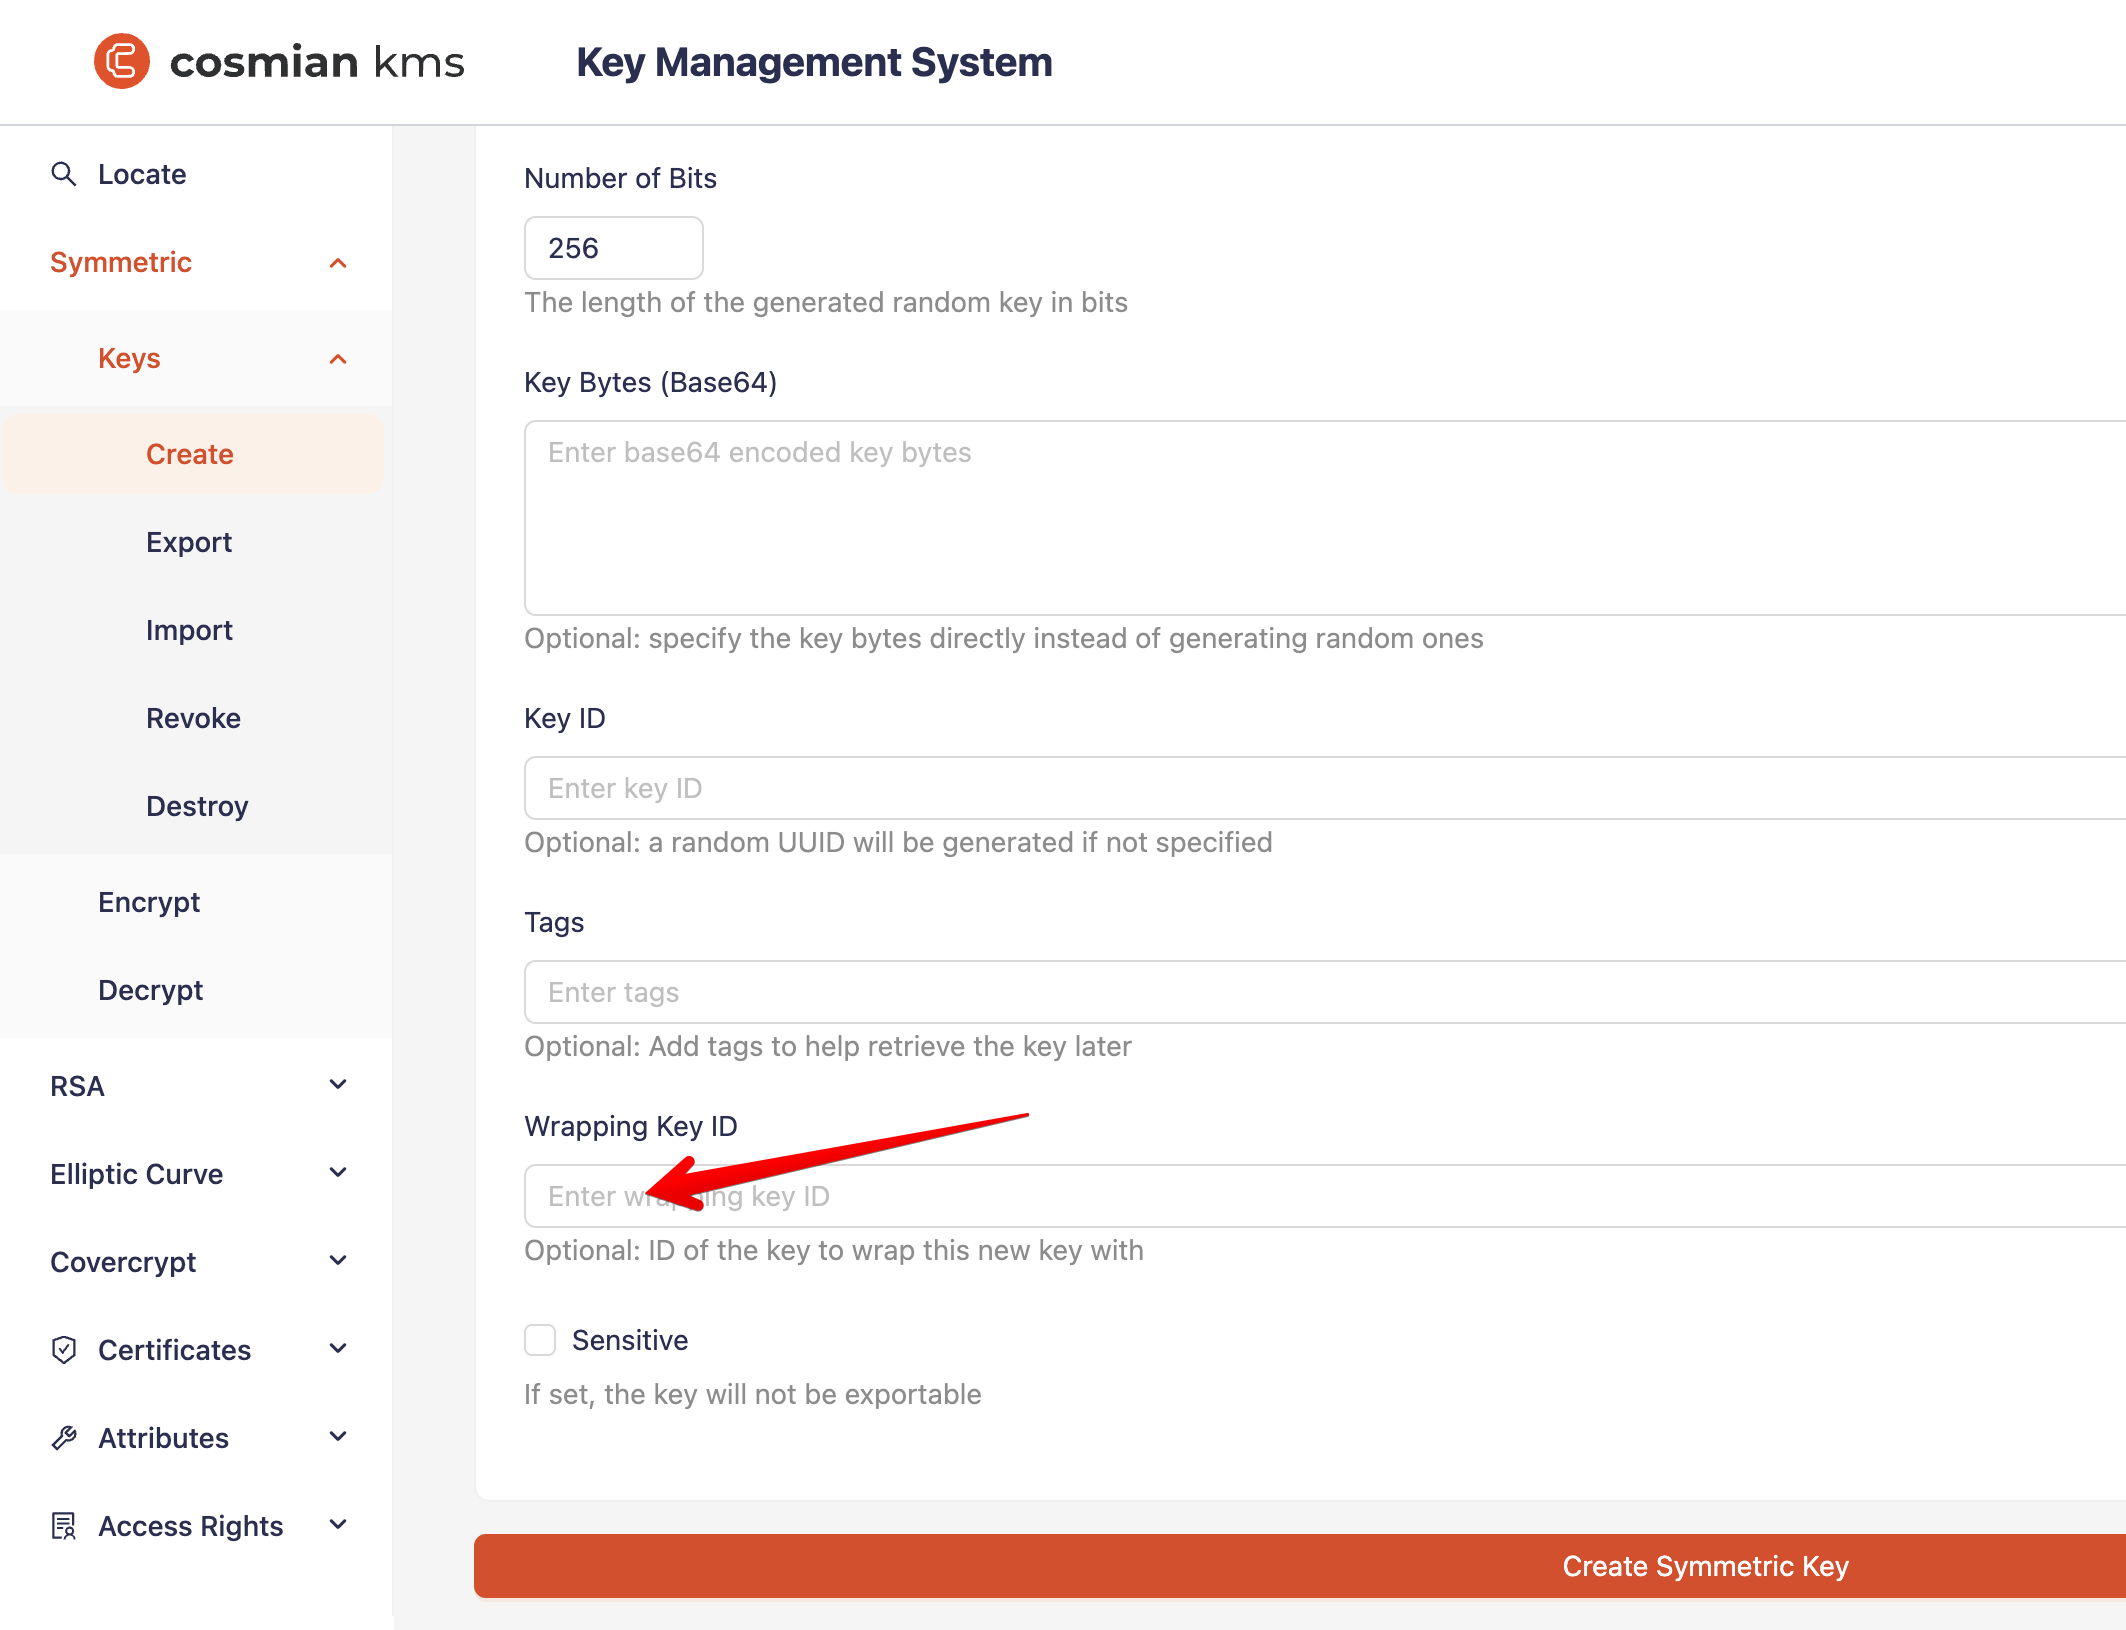
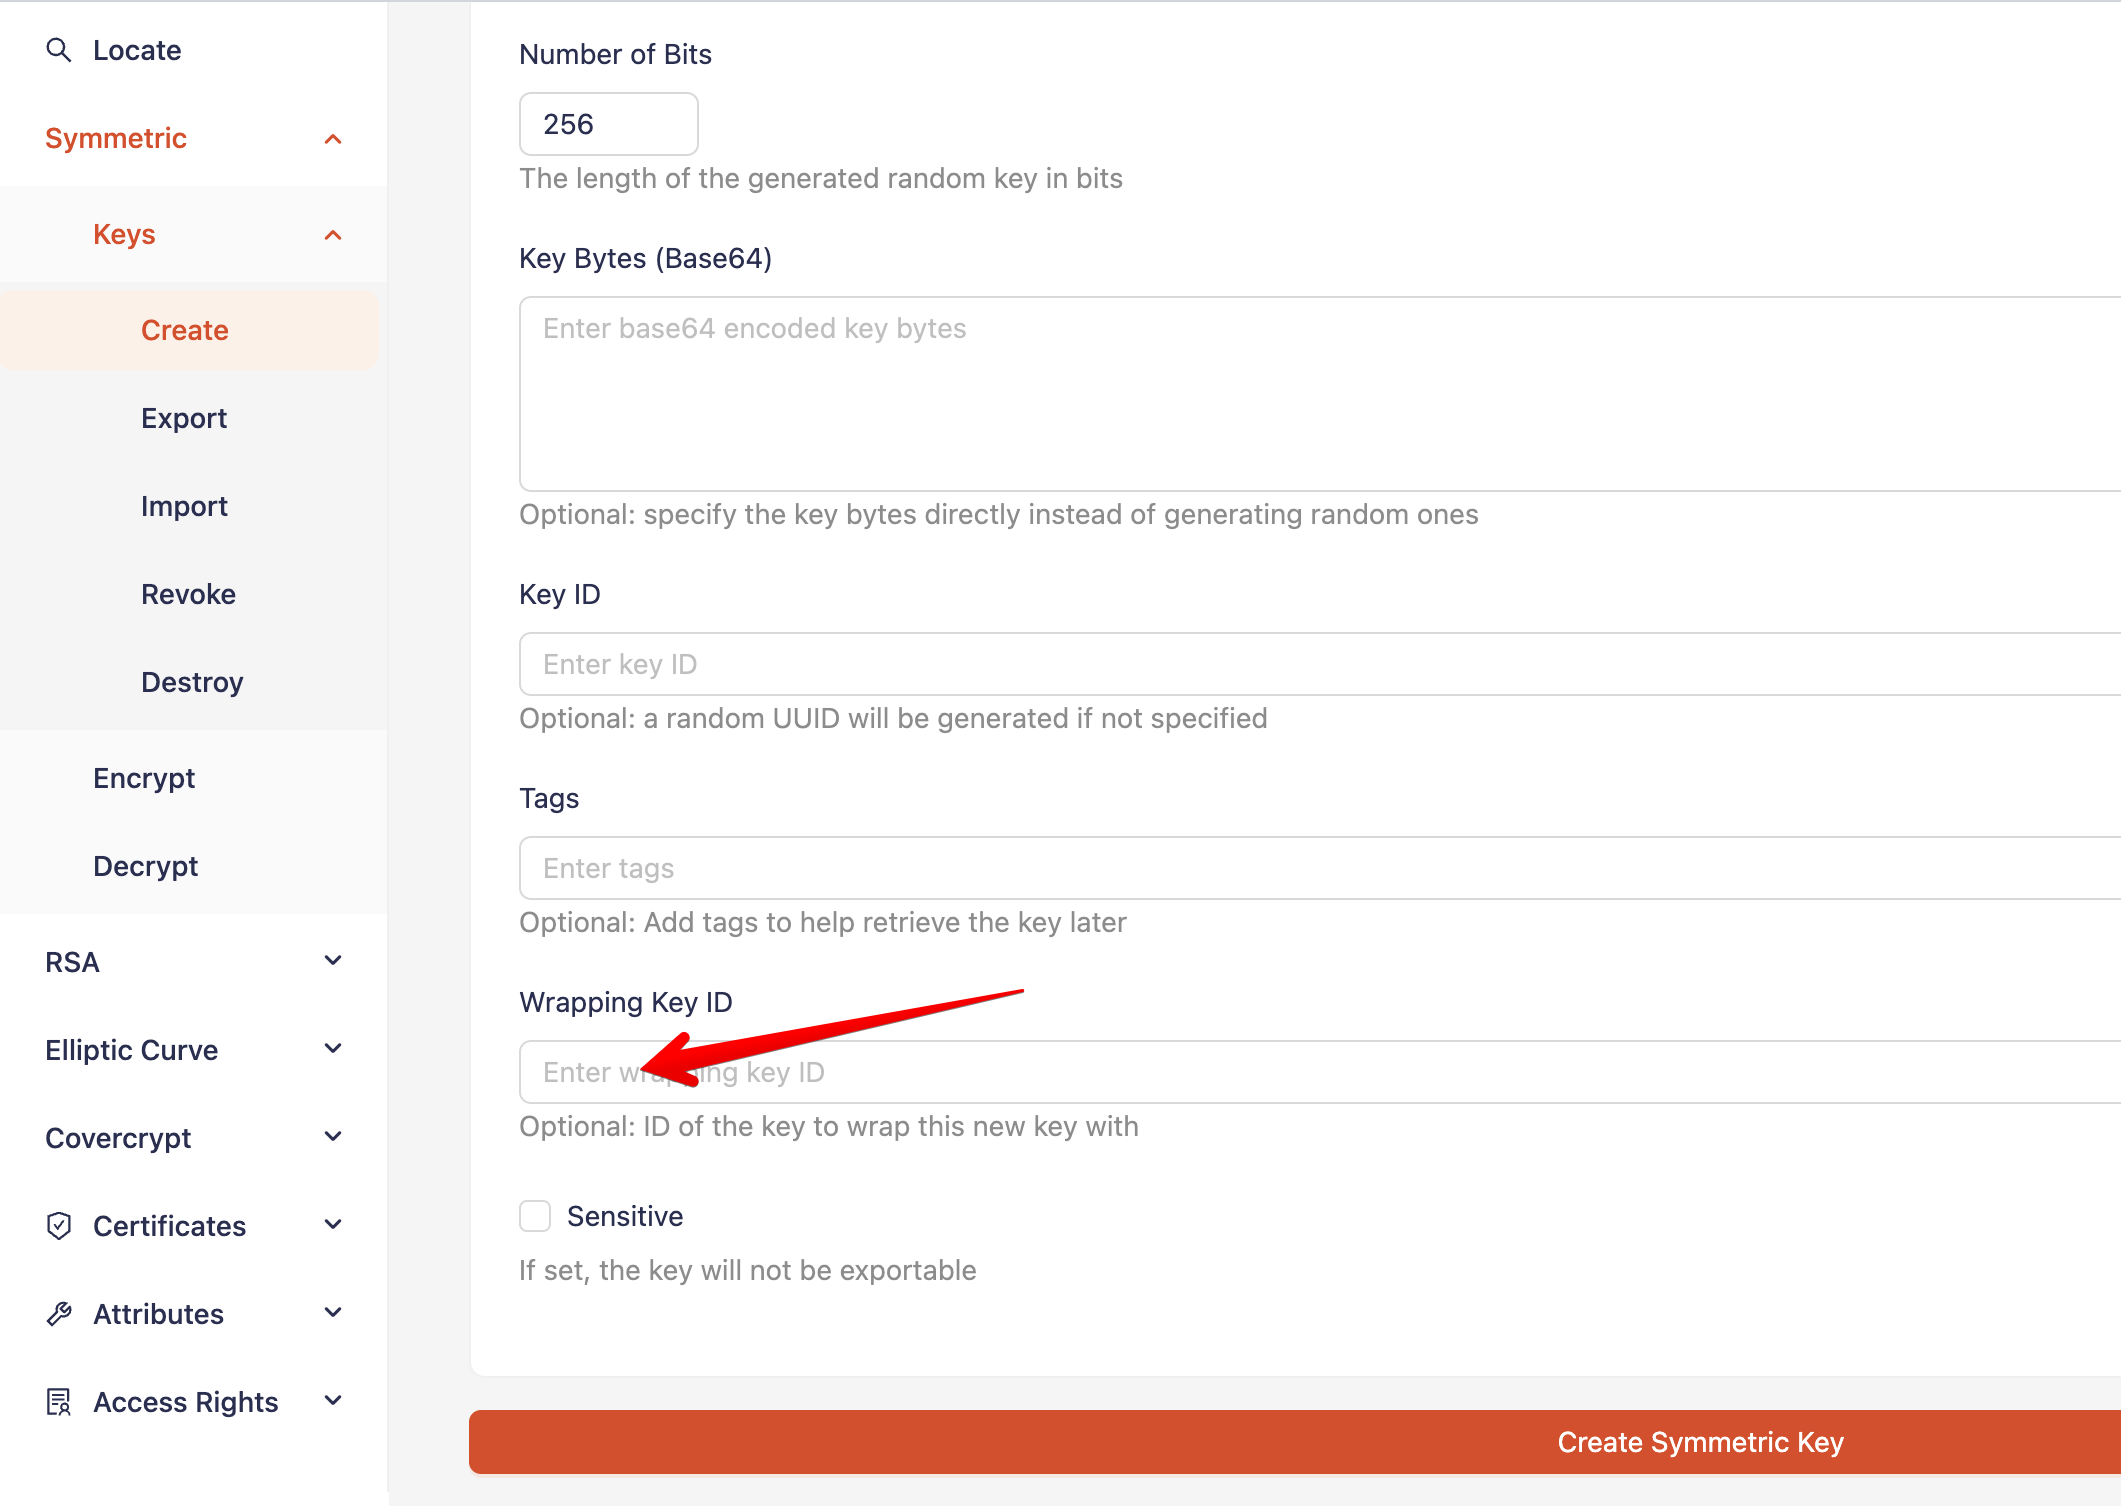
fix: two images

diff --git a/documentation/docs/index.md b/documentation/docs/index.md
@@ -1,6 +1,6 @@
 # Eviden KMS
 
-> **Note**: Cosmian has become part of [Eviden](https://eviden.com/). The Eviden KMS is now the **Eviden KMS**.
+> **Note**: Cosmian has become part of [Eviden](https://eviden.com/). The Cosmian KMS is now the **Eviden KMS**.
 
 The **Eviden KMS** is a high-performance, [**source available**](https://github.com/Cosmian/kms), [**FIPS 140-3 compliant**](./certifications_and_compliance/fips.md) server application written in [**Rust**](https://www.rust-lang.org/) with unique capabilities.
 
@@ -10,7 +10,7 @@ The **Eviden KMS** is a high-performance, [**source available**](https://github.
   with master keys held in a secure HSM-backed environment.
 - **Flexible pricing**: Per-CPU pricing with no hidden costs, all connectors are included; deploying any number of
   servers.
-- **Runs securely in public clouds**:  or zero-trust environments using Eviden VMs available on [Azure, GCP, and AWS marketplaces](https://cosmian.com/marketplaces/). See our [deployment guide](installation/marketplace_guide.md).
+- **Runs securely in public clouds**: or zero-trust environments using Eviden VMs available on [Azure, GCP, and AWS marketplaces](https://cosmian.com/marketplaces/). See our [deployment guide](installation/marketplace_guide.md).
 
 ## Standards' compliance
 
@@ -32,40 +32,40 @@ The **Eviden KMS** is a high-performance, [**source available**](https://github.
 ## Integrations
 
 - **Cloud integrations**:
-    - [Azure BYOK](./integrations/cloud_providers/azure/byok.md)
-    - [GCP CSEK](./integrations/cloud_providers/google_gcp/csek.md) and [Google CMEK](./integrations/cloud_providers/google_gcp/cmek.md)
-    - [AWS BYOK](./integrations/cloud_providers/aws/byok.md) and [AWS Fargate](./integrations/cloud_providers/aws/fargate.md)
-    - ...
+  - [Azure BYOK](./integrations/cloud_providers/azure/byok.md)
+  - [GCP CSEK](./integrations/cloud_providers/google_gcp/csek.md) and [Google CMEK](./integrations/cloud_providers/google_gcp/cmek.md)
+  - [AWS BYOK](./integrations/cloud_providers/aws/byok.md) and [AWS Fargate](./integrations/cloud_providers/aws/fargate.md)
+  - ...
 - **Workplace security**:
-    - [Google Workspace Client Side Encryption (CSE)](./integrations/cloud_providers/google_workspace_client_side_encryption_cse/getting_started/index.md)
-    - [Microsoft 365 Double Key Encryption (DKE)](./integrations/cloud_providers/microsoft_365_double_key_encryption_dke/index.md)
+  - [Google Workspace Client Side Encryption (CSE)](./integrations/cloud_providers/google_workspace_client_side_encryption_cse/getting_started/index.md)
+  - [Microsoft 365 Double Key Encryption (DKE)](./integrations/cloud_providers/microsoft_365_double_key_encryption_dke/index.md)
 - **Transparent data encryption**:
-    - [Oracle Database TDE](./integrations/databases/oracle_tde.md)
-    - [MongoDB](./integrations/databases/mongodb.md)
-    - [Mysql Enterprise](./integrations/databases/mysql.md)
-    - [Microsoft SQL Server External (EKM)](./integrations/databases/ms_sql_server.md)
-    - [PostgreSQL](./integrations/databases/percona.md)
-        - and more
+  - [Oracle Database TDE](./integrations/databases/oracle_tde.md)
+  - [MongoDB](./integrations/databases/mongodb.md)
+  - [Mysql Enterprise](./integrations/databases/mysql.md)
+  - [Microsoft SQL Server External (EKM)](./integrations/databases/ms_sql_server.md)
+  - [PostgreSQL](./integrations/databases/percona.md)
+    - and more
 - **Disk encryption**:
-    - [Veracrypt](./integrations/disk_encryption/veracrypt.md)
-    - [LUKS](./integrations/disk_encryption/luks.md)
-    - [Cryhod](./integrations/disk_encryption/cryhod.md)
+  - [Veracrypt](./integrations/disk_encryption/veracrypt.md)
+  - [LUKS](./integrations/disk_encryption/luks.md)
+  - [Cryhod](./integrations/disk_encryption/cryhod.md)
 - **Storage encryption**:
-    - [VMware](./integrations/storage/vcenter.md)
-    - [Veeam Backup & Replication](./integrations/storage/veeam.md)
-    - [Synology DSM](./integrations/storage/synology_dsm.md)
+  - [VMware](./integrations/storage/vcenter.md)
+  - [Veeam Backup & Replication](./integrations/storage/veeam.md)
+  - [Synology DSM](./integrations/storage/synology_dsm.md)
 - **Big Data**:
-    - [Snowflake](./integrations/big_data/snowflake_native_app/index.md)
-    - [Databricks, Spark,..  UDFs](./integrations/big_data/user_defined_function_for_pyspark_databricks_in_python/index.md)
+  - [Snowflake](./integrations/big_data/snowflake_native_app/index.md)
+  - [Databricks, Spark,.. UDFs](./integrations/big_data/user_defined_function_for_pyspark_databricks_in_python/index.md)
 - **Other integrations**:
-    - [FortiGate / FortiOS](./integrations/fortigate.md)
-    - [S/MIME email encryption](./integrations/smime.md)
-    - [OpenSSH](./integrations/openssh.md)
-    - [SPIRE / SPIFFE (Zero-Trust M2M)](./integrations/spire_spiffe.md)
+  - [FortiGate / FortiOS](./integrations/fortigate.md)
+  - [S/MIME email encryption](./integrations/smime.md)
+  - [OpenSSH](./integrations/openssh.md)
+  - [SPIRE / SPIFFE (Zero-Trust M2M)](./integrations/spire_spiffe.md)
 - **HSM integrations**:
-    - [Trustway Proteccio](./hsm_support/proteccio.md) and [Crypt2Pay](./hsm_support/crypt2pay.md)
-    - [Utimaco](./hsm_support/utimaco.md)
-    - [Nitrokey HSM 2 / SmartCard HSMs](./hsm_support/sc_hsm.md)
+  - [Trustway Proteccio](./hsm_support/proteccio.md) and [Crypt2Pay](./hsm_support/crypt2pay.md)
+  - [Utimaco](./hsm_support/utimaco.md)
+  - [Nitrokey HSM 2 / SmartCard HSMs](./hsm_support/sc_hsm.md)
 
 ## Three-in-one: Key lifecycle management + Encryption oracle + Public key infrastructure
 
